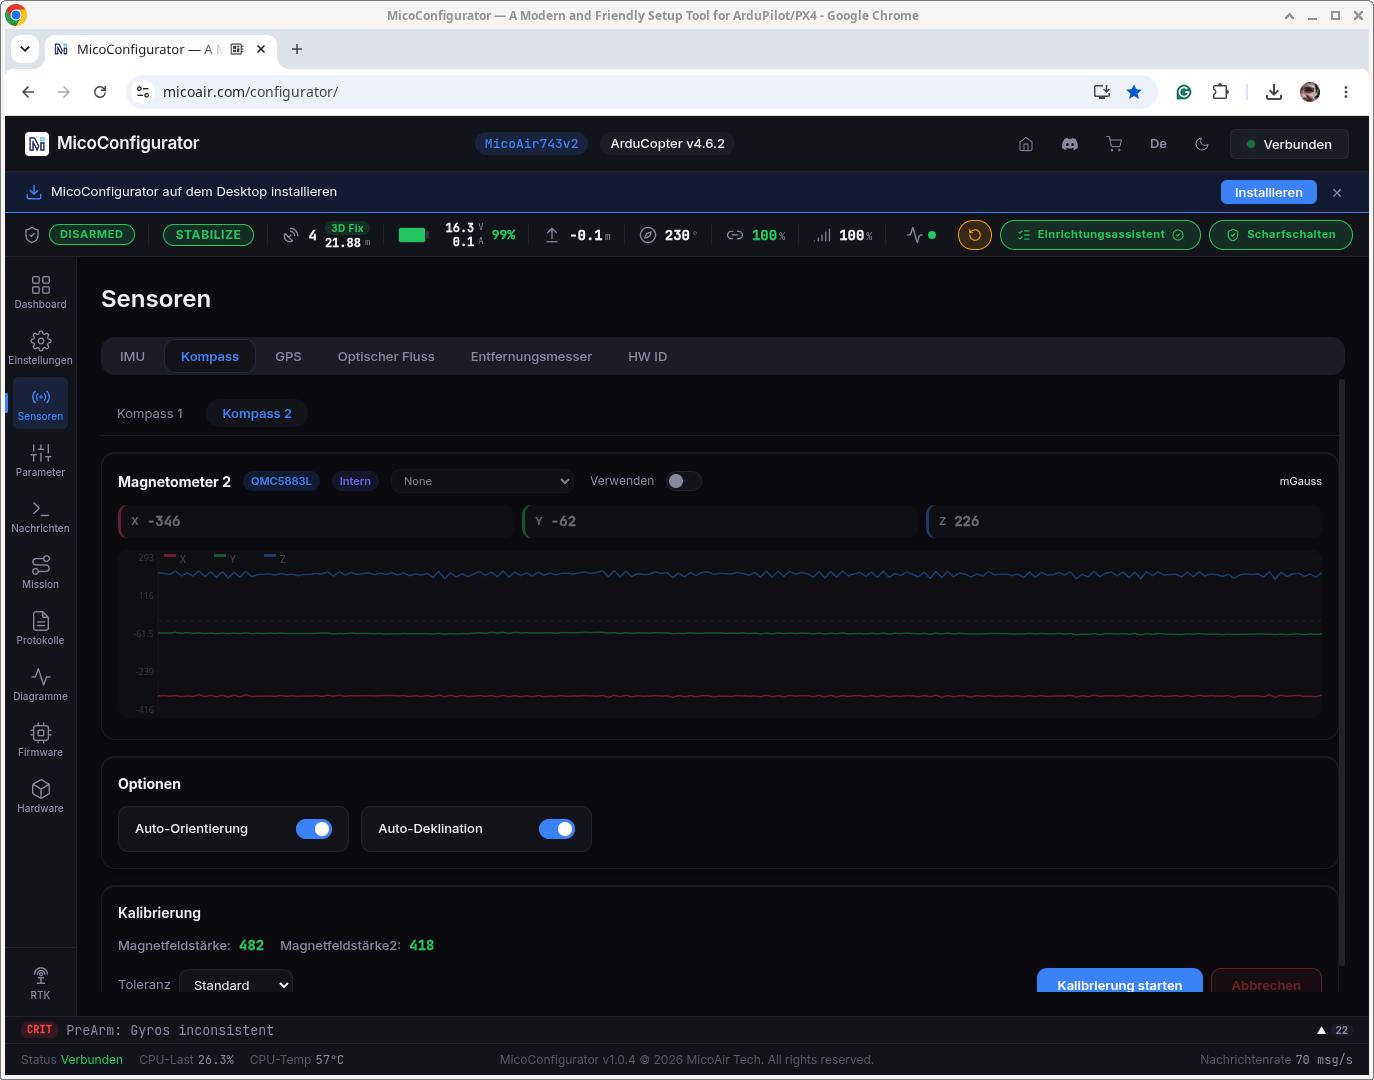
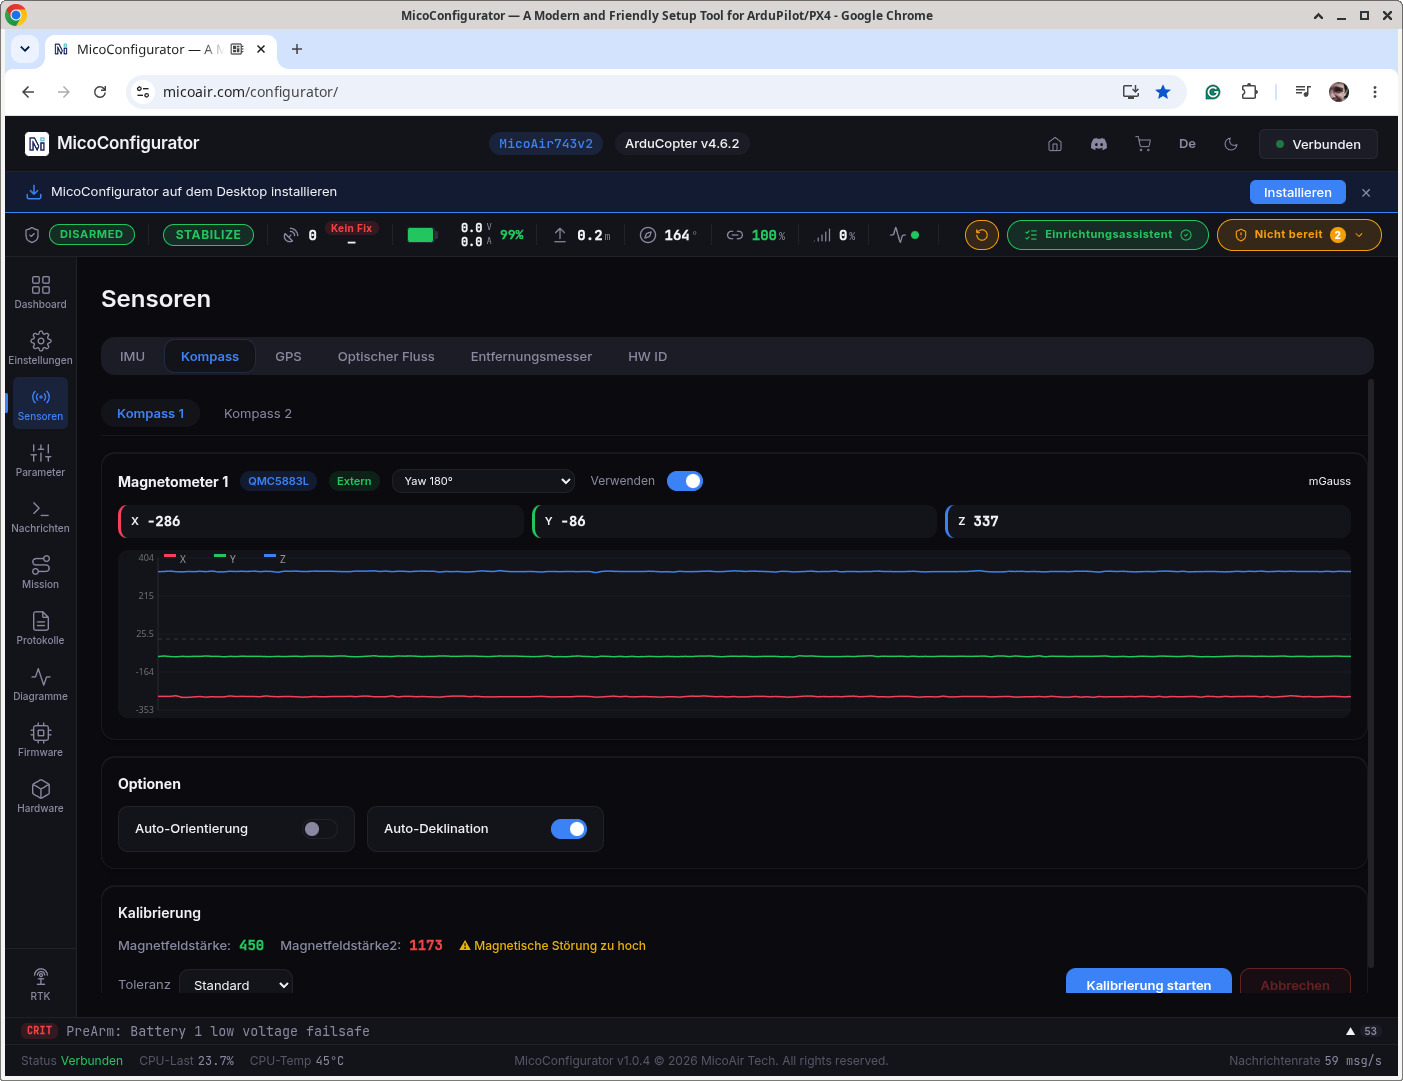
Neuer Eintrag.

diff --git a/Master_Projekt_WS2627/index.html b/Master_Projekt_WS2627/index.html
@@ -333,8 +333,8 @@ Bilder TBD
 <li><tt>SERIAL2_PROTOCOL = 44    # IRC Tramp</tt></li>
 <li><tt>SERIAL2_OPTIONS&nbsp; = 4&nbsp;     # Half-Duplex (wichtig!)</tt></li>
 <li><tt>SERIAL2_BAUD&nbsp;&nbsp;&nbsp;&nbsp; = 57    # 57600 Baudrate</tt></li>
-<li><tt>SVTX_BAND&nbsp;&nbsp;&nbsp;&nbsp;&nbsp;&nbsp;&nbsp; = 0&nbsp;     # Band A</tt></li>
-<li><tt>SVTX_CHANNEL&nbsp;&nbsp;&nbsp;&nbsp; = 0&nbsp;     # Kanal 1 => 5865 mW</tt></li>
+<li><tt>VTX_BAND&nbsp;&nbsp;&nbsp;&nbsp;&nbsp;&nbsp;&nbsp;&nbsp; = 0&nbsp;     # Band A</tt></li>
+<li><tt>VTX_CHANNEL&nbsp;&nbsp;&nbsp;&nbsp;&nbsp; = 0&nbsp;     # Kanal 1 => 5865 mW</tt></li>
 <li><tt>VTX_MAX_POWER&nbsp;&nbsp;&nbsp; = 25    # Sendeleistung: 25mW </tt></li>
 <li><tt>VTX_OPTIONS&nbsp;&nbsp;&nbsp;&nbsp;&nbsp; = 0&nbsp;     # Empfehlung: Wert 7 für Pitmode vor und nach dem Arming</tt></li>
 </ul>
@@ -343,6 +343,7 @@ Bilder TBD
 <li><b>Motoren:</b> <a href="https://iflight-rc.eu/products/xing2-2809-fpv-motor">iFlight XING2 2809 1250KV</a> 4-6S (<a href="Dokumente/xing2-2809-fpv-motor-890516.png">Spezifikation</a>)</li>
 <li><b>Propeller:</b> <a href="https://www.gemfanhobby.com/6038-hurricane-pc-4-blade.html">Gemfan Hurricane 6038-4</a> 6-Zoll 4-Blatt Propeller (<a href="Dokumente/2025-Gemfan-Product-Catalog.pdf">Informationen</a>)</li>
 <li><b>GPS:</b> HGLRC M100-5883 mit Kompass (<a href="Dokumente/HGLRC_M100_5883_GPS.pdf">Handbuch</a>)</li>
+<li><b>Optical Flow Sensor:</b> MicroAir MTF-01P</li> 
 </ul>
 
 
@@ -380,8 +381,8 @@ Bilder TBD
 <li><tt>SERIAL2_PROTOCOL = 44    # IRC Tramp</tt></li>
 <li><tt>SERIAL2_OPTIONS&nbsp; = 4&nbsp;     # Half-Duplex (wichtig!)</tt></li>
 <li><tt>SERIAL2_BAUD&nbsp;&nbsp;&nbsp;&nbsp; = 57    # 57600 Baudrate</tt></li>
-<li><tt>SVTX_BAND&nbsp;&nbsp;&nbsp;&nbsp;&nbsp;&nbsp;&nbsp; = 0&nbsp;     # Band A</tt></li>
-<li><tt>SVTX_CHANNEL&nbsp;&nbsp;&nbsp;&nbsp; = 2&nbsp;     # Kanal 3 => 5825 mW</tt></li>
+<li><tt>VTX_BAND&nbsp;&nbsp;&nbsp;&nbsp;&nbsp;&nbsp;&nbsp;&nbsp; = 0&nbsp;     # Band A</tt></li>
+<li><tt>VTX_CHANNEL&nbsp;&nbsp;&nbsp;&nbsp;&nbsp; = 2&nbsp;     # Kanal 3 => 5825 mW</tt></li>
 <li><tt>VTX_MAX_POWER&nbsp;&nbsp;&nbsp; = 25    # Sendeleistung: 25mW </tt></li>
 <li><tt>VTX_OPTIONS&nbsp;&nbsp;&nbsp;&nbsp;&nbsp; = 0&nbsp;     # Empfehlung: Wert 7 für Pitmode vor und nach dem Arming</tt></li>
 </ul>
@@ -390,6 +391,15 @@ Bilder TBD
 <li><b>Motoren:</b> <a href="https://tmotorhobby.com/goods-1199-T-MOTORHOBBY+VELOX+V2808+Drone+Motor.html">T-MOTORHOBBY VELOX V2808 1950KV</a> 4-6S</li>
 <li><b>Propeller:</b> <a href="https://www.gemfanhobby.com/6038-hurricane-pc-4-blade.html">Gemfan Hurricane 6038-4</a> 6-Zoll 4-Blatt Propeller (<a href="Dokumente/2025-Gemfan-Product-Catalog.pdf">Informationen</a>)</li>
 <li><b>GPS:</b> HGLRC M100-5883 mit Kompass (<a href="Dokumente/HGLRC_M100_5883_GPS.pdf">Handbuch</a>)</li>
+<ul>
+<li>Das GPS+Kompass-Modul ist um 180 Grad gedreht eingebaut (YAW=180), damit das Anschlusskabel nach hinten zeigt.</li>
+<li>Den im Flugcontroller enthalteten Kompass verwenden wir nicht, weil er zu anfällig ist für elektromagnetische Störungen.</li>
+<li><tt>COMPASS_AUTO_ROT = 0</tt></li>
+<li><tt>COMPASS_ENABLE&nbsp;&nbsp; = 1</tt></li>
+<li><tt>COMPASS_EXTERNAL = 1  # Externer Kompass </tt></li>
+<li><tt>COMPASS_ORIENT&nbsp;&nbsp; = 4 # Yaw180</tt></li>
+</ul>
+<li><b>Optical Flow Sensor:</b> MicroAir MTF-01P</li> 
 </ul>
 
 <a href="Bilder/Drohne_6_5_mit_Raspi_Zero_und_Raspi_AI_Camera_und_LIDAR_2026.png"><img src="Bilder/Drohne_6_5_mit_Raspi_Zero_und_Raspi_AI_Camera_und_LIDAR_2026_icon.png" alt="Drohne Gruppenbild 1" width="190" height="200" border="0"></a>
@@ -421,8 +431,8 @@ Bilder TBD
 <li><tt>SERIAL2_PROTOCOL = 44    # IRC Tramp</tt></li>
 <li><tt>SERIAL2_OPTIONS&nbsp; = 4&nbsp;     # Half-Duplex (wichtig!)</tt></li>
 <li><tt>SERIAL2_BAUD&nbsp;&nbsp;&nbsp;&nbsp; = 57    # 57600 Baudrate</tt></li>
-<li><tt>SVTX_BAND&nbsp;&nbsp;&nbsp;&nbsp;&nbsp;&nbsp;&nbsp; = 0&nbsp;     # Band A</tt></li>
-<li><tt>SVTX_CHANNEL&nbsp;&nbsp;&nbsp;&nbsp; = 4&nbsp;     # Kanal 5 => 5785 mW</tt></li>
+<li><tt>VTX_BAND&nbsp;&nbsp;&nbsp;&nbsp;&nbsp;&nbsp;&nbsp;&nbsp; = 0&nbsp;     # Band A</tt></li>
+<li><tt>VTX_CHANNEL&nbsp;&nbsp;&nbsp;&nbsp;&nbsp; = 4&nbsp;     # Kanal 5 => 5785 mW</tt></li>
 <li><tt>VTX_MAX_POWER&nbsp;&nbsp;&nbsp; = 25    # Sendeleistung: 25mW </tt></li>
 <li><tt>VTX_OPTIONS&nbsp;&nbsp;&nbsp;&nbsp;&nbsp; = 0&nbsp;     # Hinweis: Pitmode funktioniert bislang nicht (Ursache unklar)</tt></li>
 </ul>
@@ -431,6 +441,7 @@ Bilder TBD
 <li><b>Motoren:</b> <a href="https://www.rotorama.de/product/iflight-xing-2806-5-1800kv">iFlight XING2 2806.5 1800KV</a> 4-6S (<a href="Dokumente/XING-2806.5-1800KV.png">Spezifikation</a>)</li>
 <li><b>Propeller:</b> <a href="https://www.gemfanhobby.com/6038-hurricane-pc-4-blade.html">Gemfan Hurricane 6038-4</a> 6-Zoll 4-Blatt Propeller (<a href="Dokumente/2025-Gemfan-Product-Catalog.pdf">Informationen</a>)</li>
 <li><b>GPS:</b> HGLRC M100-5883 mit Kompass (<a href="Dokumente/HGLRC_M100_5883_GPS.pdf">Handbuch</a>)</li>
+<li><b>Optical Flow Sensor:</b> MicroAir MTF-01P</li> 
 </ul>
 
 <a href="Bilder/Drohne_6_5_mit_Raspi_Zero_und_Raspi_AI_Camera_und_LIDAR_und_BAC_2026.png"><img src="Bilder/Drohne_6_5_mit_Raspi_Zero_und_Raspi_AI_Camera_und_LIDAR_und_BAC_2026_icon.png" alt="Drohne Gruppenbild 1" width="190" height="200" border="0"></a>
